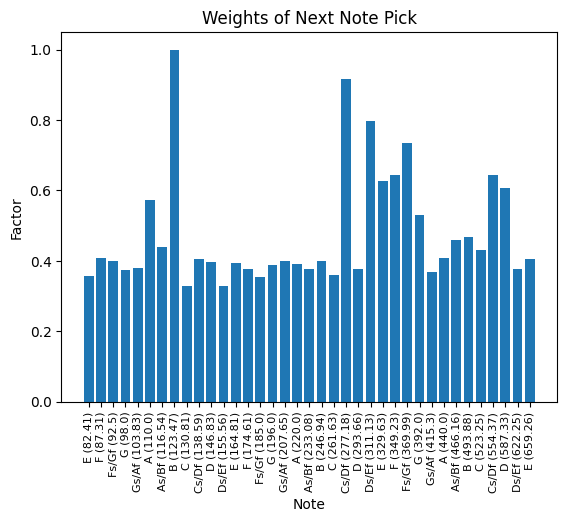
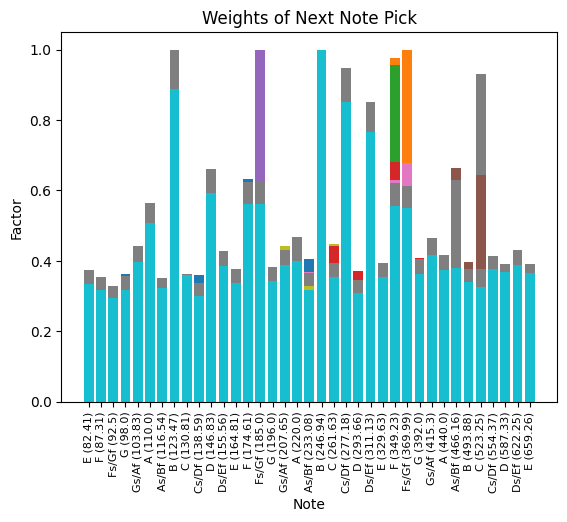
added max fret width

Changed region(s): [[0.1499, 0.092, 0.9594, 0.7969]]

diff --git a/play_intervals.py b/play_intervals.py
@@ -59,8 +59,14 @@ def choose_interval(curr_stats, saved_data):
 
 
     # Select interval with length BELOW required (just sample randomly until a hit)
+    # filter by interval distance 
+    # filter by specific interval
     choice = None
-    while choice is None or choice.get_distance() > MAX_INTERVAL_DISTANCE:
+    while choice is None \
+        or choice.get_distance() > MAX_INTERVAL_DISTANCE \
+        or choice.get_fret_width() > MAX_FRET_WIDTH \
+        or choice.get_full_name() not in ACTIVE_INTERVALS: 
+
         # select either randomly or with probability based on learning
         if RANDOM_NOT_DYNAMIC_PICKING:
             choice = random.choice(saved_data)

diff --git a/structs.py b/structs.py
@@ -123,7 +123,6 @@ class Interval(GuessMaker):
         self.note_a = note_a
         self.note_b = note_b
         
-
     def __str__(self):
         name = get_interval_name(self.note_a, self.note_b)
         return f'({name})\n    Note A: {str(self.note_a)}\n    Note B: {str(self.note_b)}'
@@ -151,3 +150,8 @@ class Interval(GuessMaker):
 
         return half_steps
             
+    def get_fret_width(self) -> int:
+        """Returns the number of half-steps width wise between note a and b. aka fret width. 
+        note: common practice is 5 for chords and caged
+        """
+        return abs(self.note_a.fret_idx - self.note_b.fret_idx)

diff --git a/constants.py b/constants.py
@@ -77,9 +77,13 @@ RANDOM_NOT_DYNAMIC_PICKING = False
 
 # Only show Intervals with half-step distance less than 
 MAX_INTERVAL_DISTANCE = 100
+MAX_FRET_WIDTH = 5
 
 # If NO_WRONG = True then your mistakes won't be registerd
 NO_WRONG = True
 
 # Plays harmonic intervals over melodic intervals probability
-HARMONIC_INTERVAL_PROB = 0.7
+HARMONIC_INTERVAL_PROB = 0.5
+
+# Shows only intervals listed here
+ACTIVE_INTERVALS = INTERVAL_NAMES
